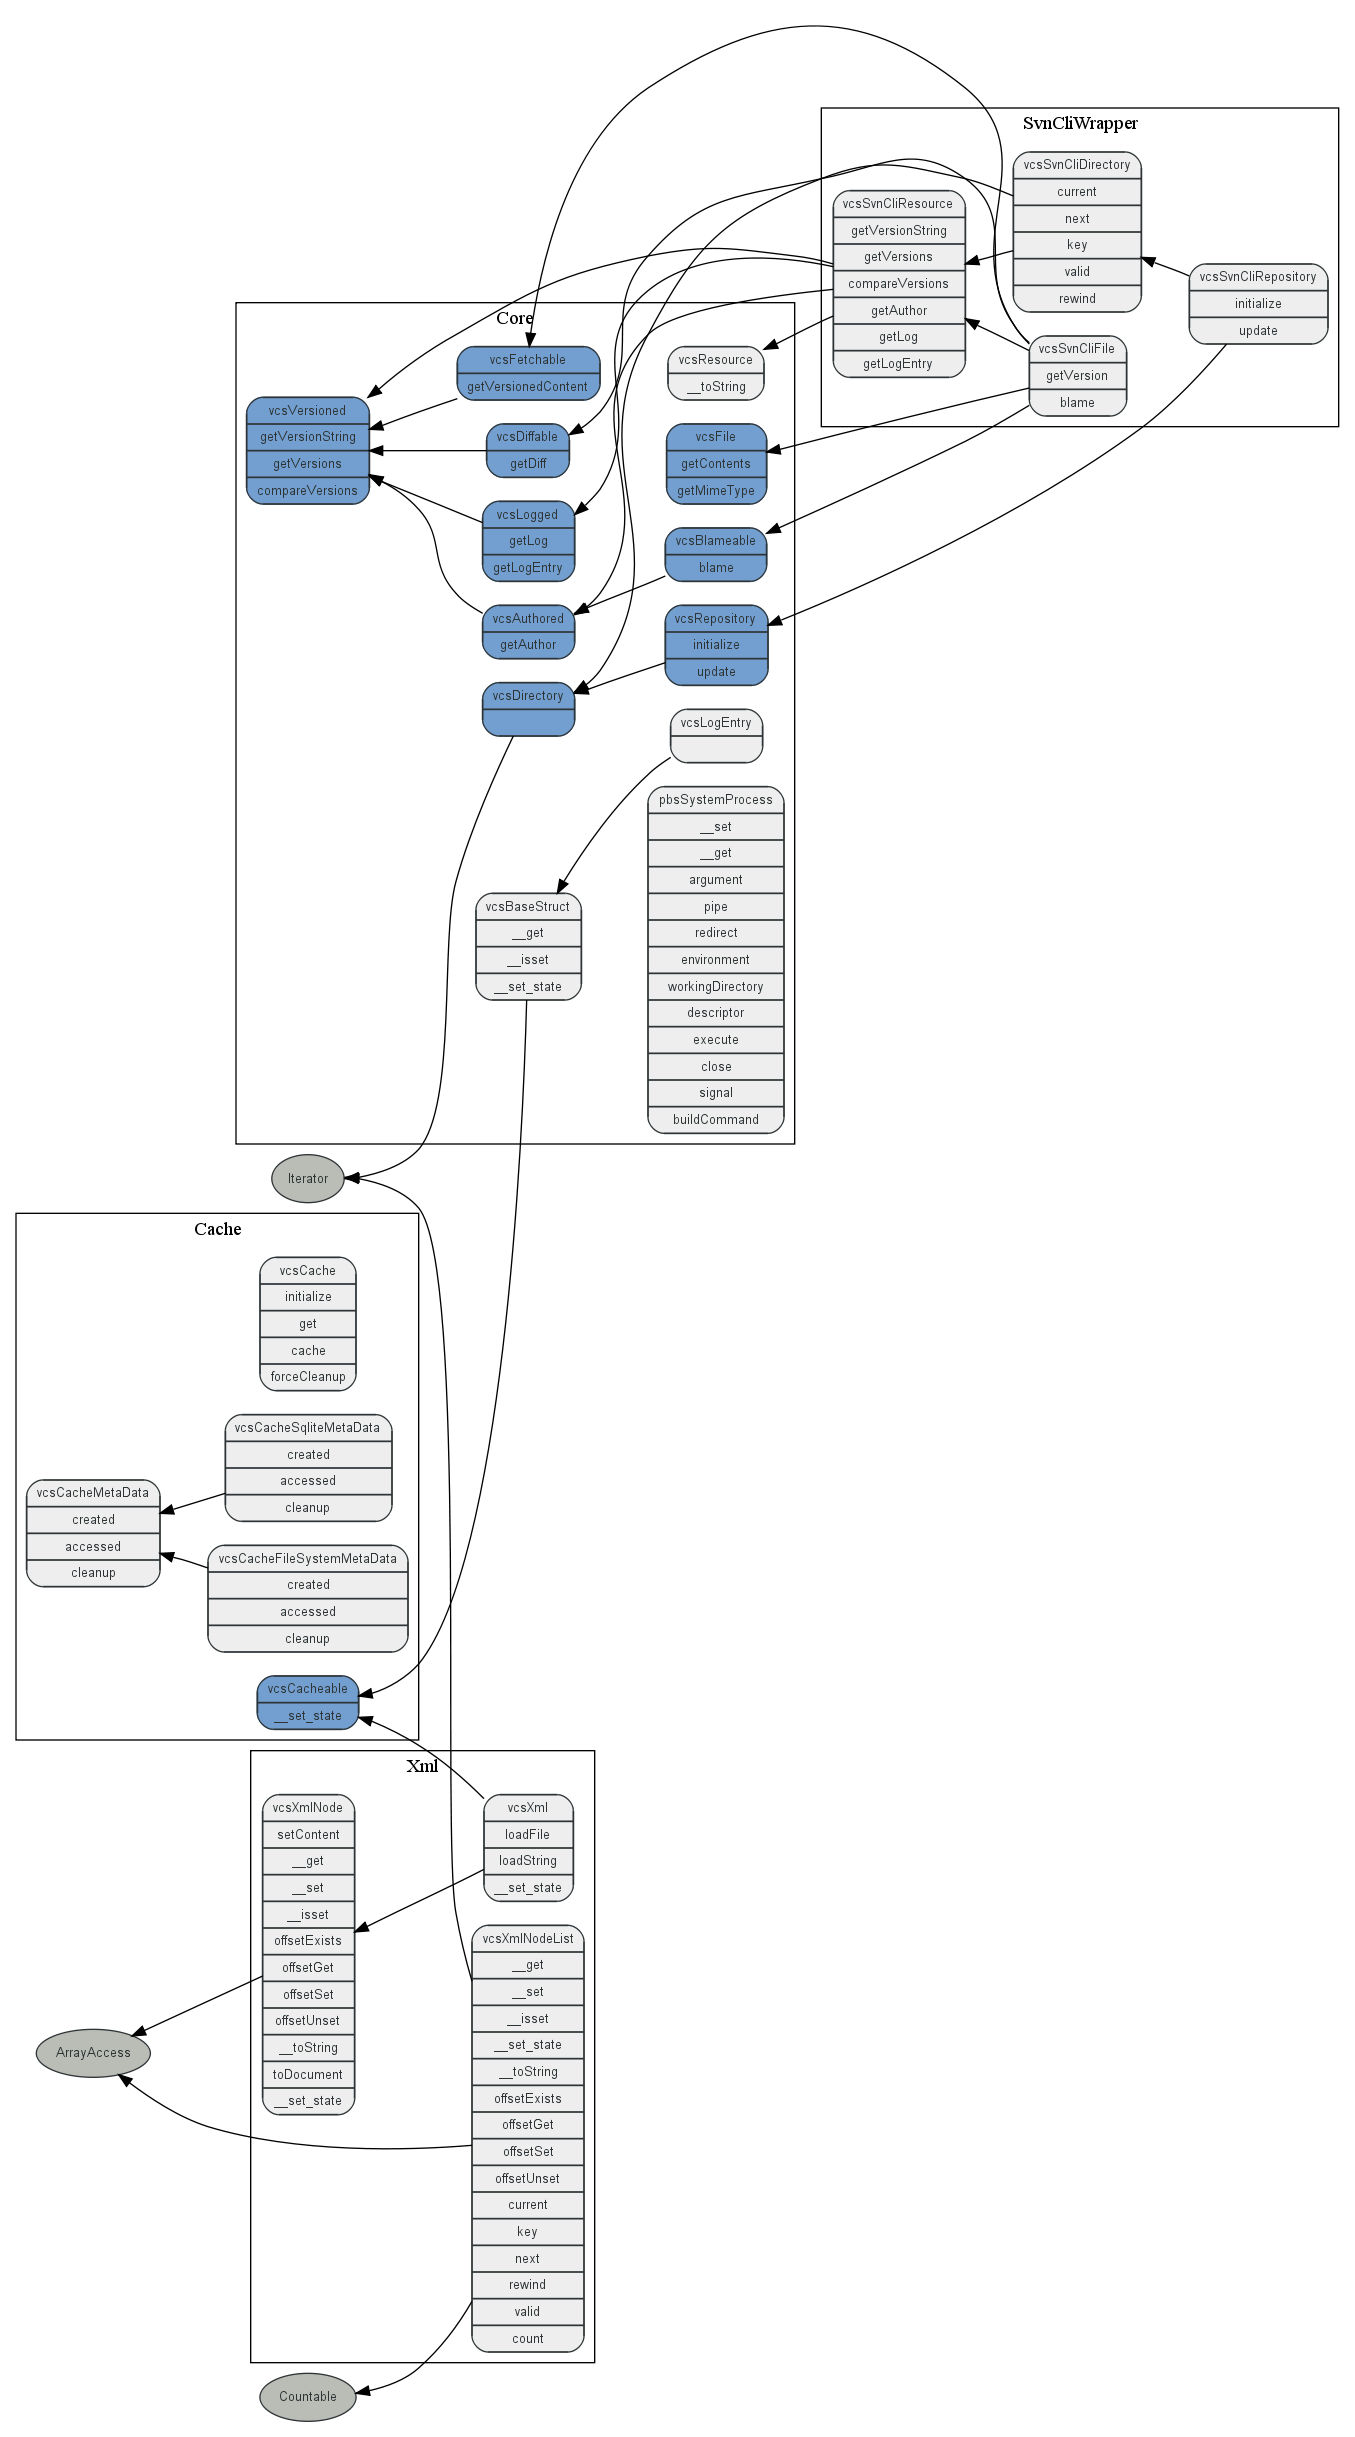
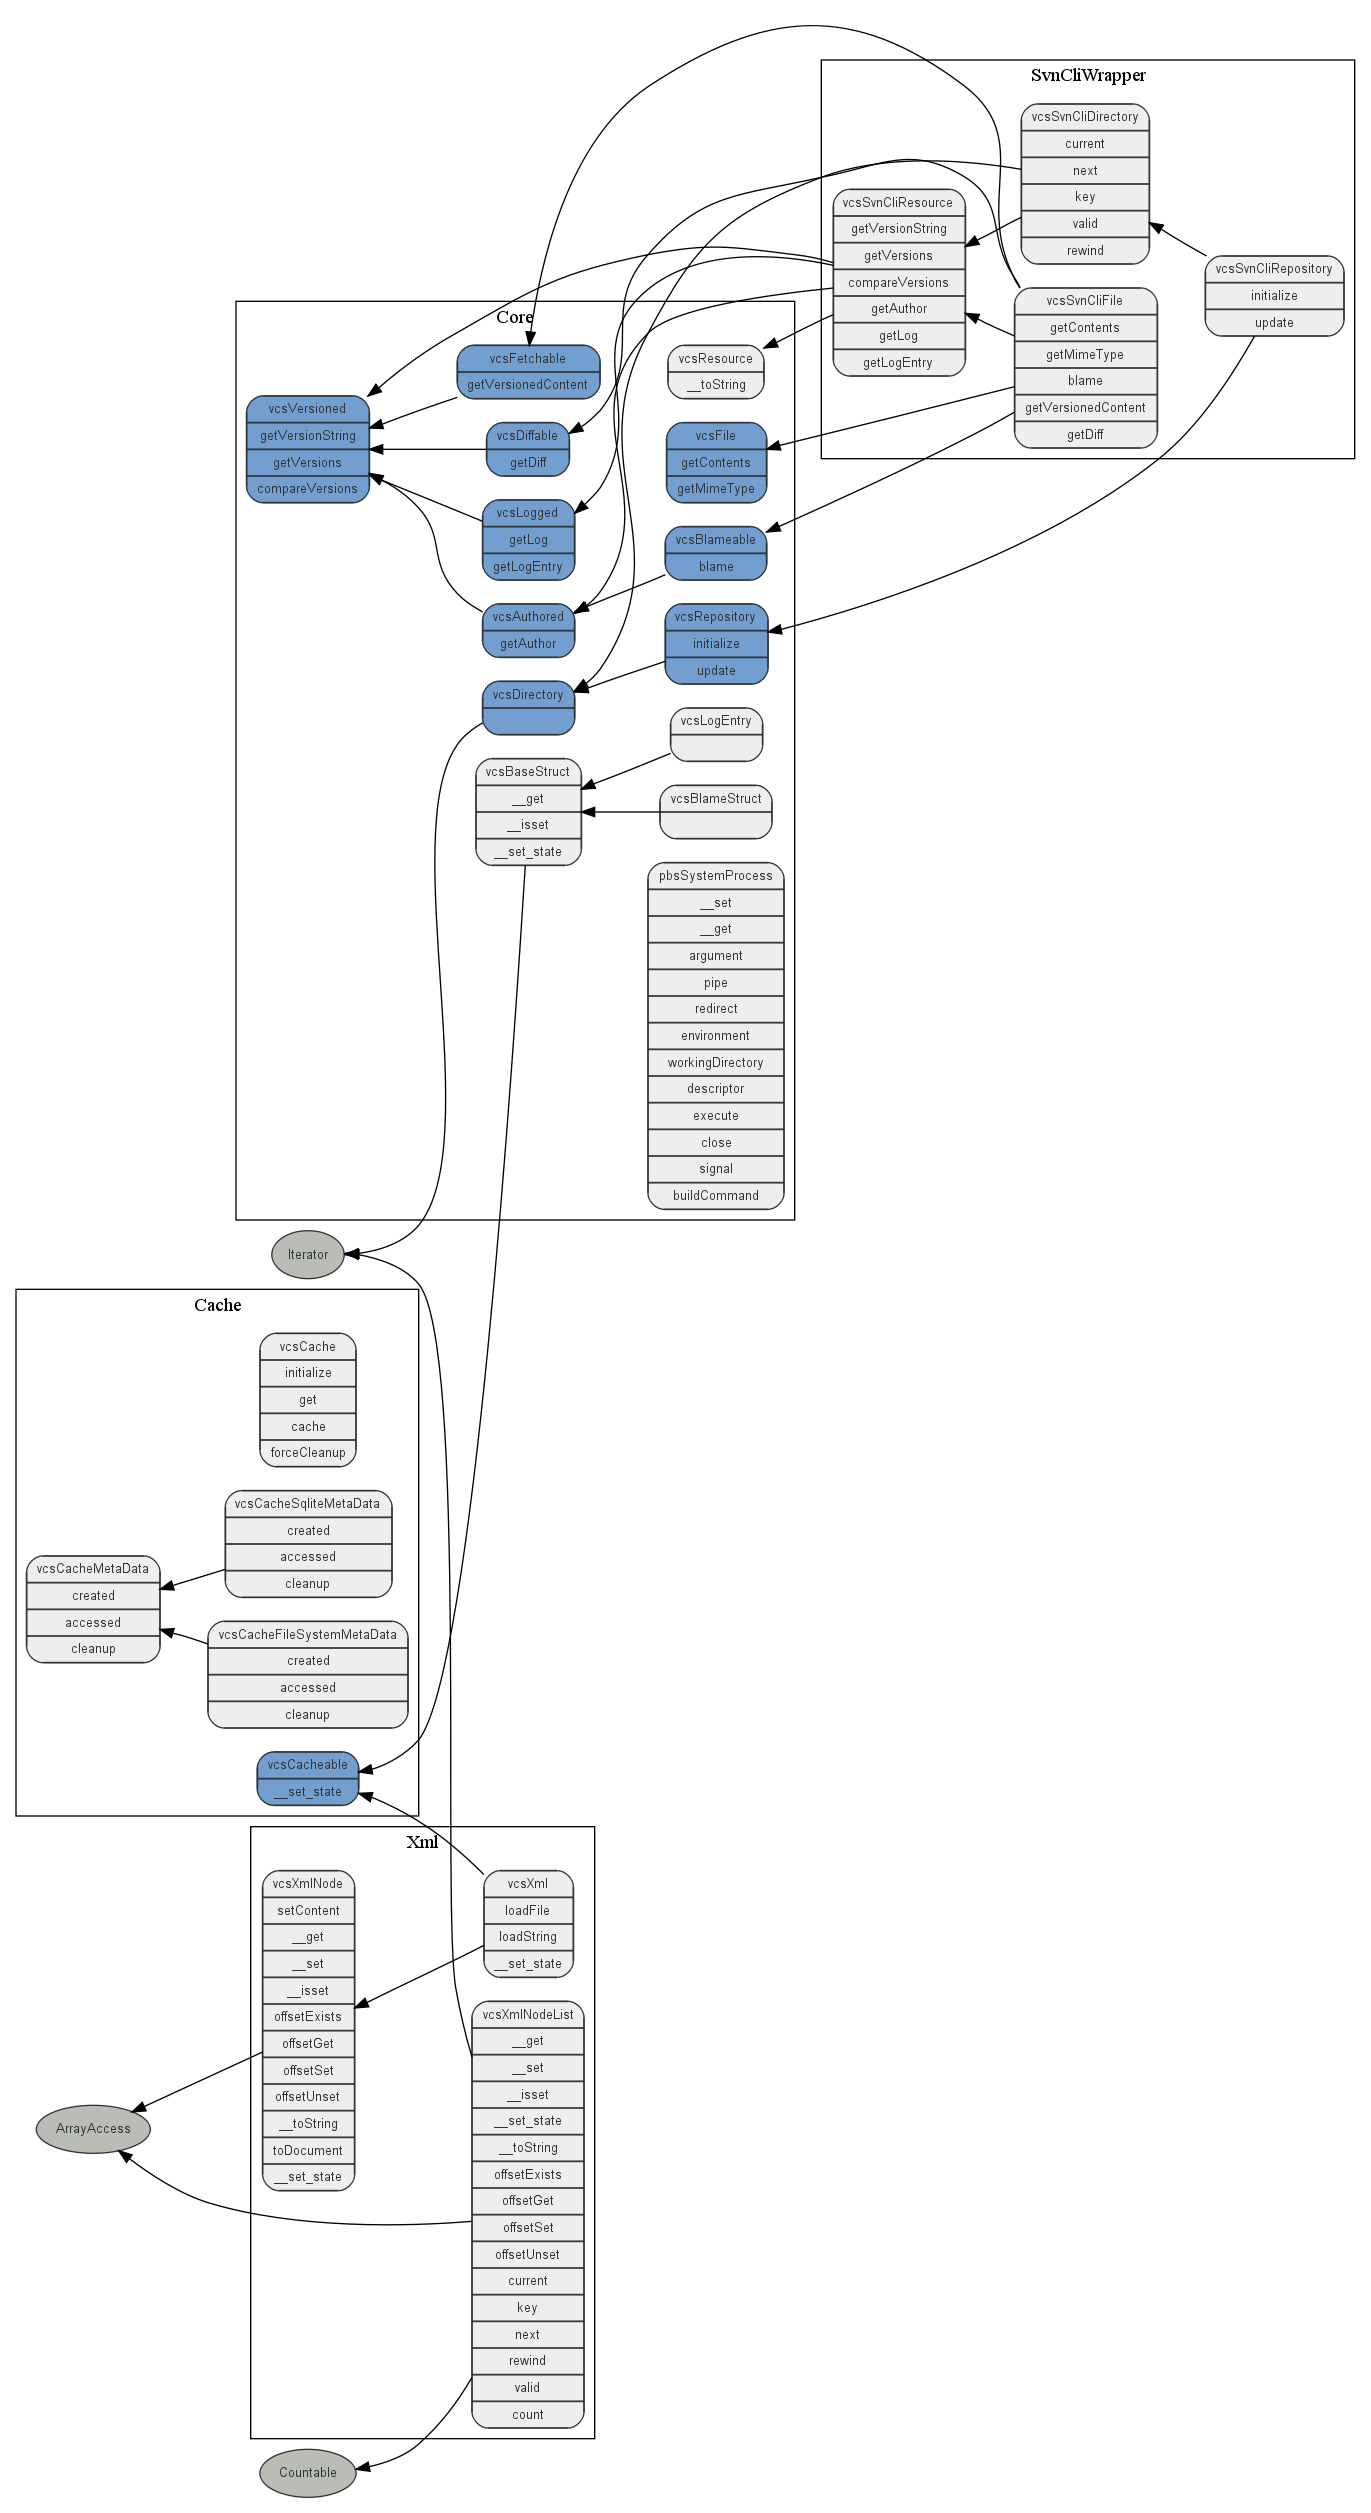
- Implemented: Blame in SVN cli wrapper
git-svn-id: svn://arbitracker.org/arbit/projects/vcs_wrapper/trunk@893 d477c273-c135-45d2-a073-3c6b16f0e171

diff --git a/src/classes/blame.php b/src/classes/blame.php
@@ -1,0 +1,60 @@
+<?php
+/**
+ * PHP VCS wrapper log entry
+ *
+ * This file is part of vcs-wrapper.
+ *
+ * vcs-wrapper is free software; you can redistribute it and/or modify it under
+ * the terms of the GNU Lesser General Public License as published by the Free
+ * Software Foundation; version 3 of the License.
+ *
+ * vcs-wrapper is distributed in the hope that it will be useful, but WITHOUT ANY
+ * WARRANTY; without even the implied warranty of MERCHANTABILITY or FITNESS
+ * FOR A PARTICULAR PURPOSE.  See the GNU Lesser General Public License for
+ * more details.
+ *
+ * You should have received a copy of the GNU Lesser General Public License
+ * along with vcs-wrapper; if not, write to the Free Software Foundation, Inc., 51
+ * Franklin St, Fifth Floor, Boston, MA  02110-1301  USA
+ *
+ * @package VCSWrapper
+ * @subpackage Core
+ * @version $Revision: 14 $
+ * @license http://www.gnu.org/licenses/lgpl-3.0.txt LGPLv3
+ */
+
+/*
+ * VCS wrapper abstracted log entry
+ */
+class vcsBlameStruct extends vcsBaseStruct
+{
+    /**
+     * Array containing the structs properties.
+     * 
+     * @var array
+     */
+    protected $properties = array(
+        'content' => null,
+        'version' => null,
+        'author'  => null,
+        'date'    => null,
+    );
+
+    /**
+     * Construct struct from given values
+     * 
+     * @param string $version 
+     * @param string $author 
+     * @param string $message 
+     * @param int $date 
+     * @return void
+     */
+    public function __construct( $content = null, $version = null, $author = null, $date = null )
+    {
+        $this->content = (string) $content;
+        $this->version = (string) $version;
+        $this->author  = (string) $author;
+        $this->date    = (int) $date;
+    }
+}
+

diff --git a/src/classes/wrapper/svn-cli/file.php b/src/classes/wrapper/svn-cli/file.php
@@ -57,6 +57,39 @@ class vcsSvnCliFile extends vcsSvnCliResource implements vcsFile, vcsBlameable, 
      */
     public function blame( $version = null )
     {
+        $version = ( $version === null ) ? $this->getVersionString() : $version;
+
+        if ( !in_array( $version, $this->getVersions(), true ) )
+        {
+            throw new vcsNoSuchVersionException( $this->path, $version );
+        }
+
+        if ( ( $blame = vcsCache::get( $this->path, $version, 'blame' ) ) === false )
+        {
+            // Refetch the basic blamermation, and cache it.
+            $process = new pbsSystemProcess( 'svn' );
+            $process->argument( '--non-interactive' )->argument( '--xml' )->argument( '-r' . $version );
+
+            // Execute command
+            $return = $process->argument( 'blame' )->argument( $this->root . $this->path )->execute();
+            $xml = vcsXml::loadString( $process->stdoutOutput );
+            $contents = preg_split( '(\r\n|\r|\n)', $this->getVersionedContent( $version ) );
+
+            $blame = array();
+            foreach ( $xml->target[0]->entry as $nr => $entry )
+            {
+                $blame[] = new vcsBlameStruct(
+                    $contents[$nr],
+                    $entry->commit[0]['revision'],
+                    $entry->commit[0]->author,
+                    strtotime( $entry->commit[0]->date )
+                );
+            }
+
+            vcsCache::cache( $this->path, $version, 'blame', $blame );
+        }
+
+        return $blame;
     }
 
     /**

diff --git a/tests/svn-cli/file.php b/tests/svn-cli/file.php
@@ -169,5 +169,43 @@ class vcsSvnCliFileTests extends vcsTestCase
         } catch ( vcsNoSuchVersionException $e )
         { /* Expected */ }
     }
+
+    public function testGetFileBlame()
+    {
+        $repository = new vcsSvnCliRepository( $this->tempDir );
+        $repository->initialize( 'file://' . realpath( __DIR__ . '/../data/svn' ) );
+        $file = new vcsSvnCliFile( $this->tempDir, '/file' );
+
+        $this->assertEquals(
+            array(
+                new vcsBlameStruct(
+                    'Some test file',
+                    '1',
+                    'kore',
+                    1226412609
+                ),
+                new vcsBlameStruct(
+                    'A second line, in a later revision',
+                    '5',
+                    'kore',
+                    1226595170
+                ),
+            ),
+            $file->blame()
+        );
+    }
+
+    public function testGetFileBlameInvalidVersion()
+    {
+        $repository = new vcsSvnCliRepository( $this->tempDir );
+        $repository->initialize( 'file://' . realpath( __DIR__ . '/../data/svn' ) );
+        $file = new vcsSvnCliFile( $this->tempDir, '/file' );
+
+        try {
+            $file->blame( "no_such_version" );
+            $this->fail( 'Expected vcsNoSuchVersionException.' );
+        } catch ( vcsNoSuchVersionException $e )
+        { /* Expected */ }
+    }
 }
 

diff --git a/src/classes/autoload.php b/src/classes/autoload.php
@@ -29,6 +29,9 @@
  * # scripts/gen_autoload_files.php
  */
 return array(
+    'vcsCacheable'                              => 'classes/interfaces/cacheable.php',
+    'vcsBaseStruct'                             => 'classes/struct.php',
+    'vcsBlameStruct'                            => 'classes/blame.php',
     'vcsCache'                                  => 'classes/cache.php',
     'vcsCacheMetaData'                          => 'classes/cache/metadata.php',
     'vcsCacheFileSystemMetaData'                => 'classes/cache/metadata/filesystem.php',
@@ -41,8 +44,6 @@ return array(
     'vcsRpositoryInitialisationFailedException' => 'classes/exceptions.php',
     'vcsRpositoryUpdateFailedException'         => 'classes/exceptions.php',
     'vcsNoSuchVersionException'                 => 'classes/exceptions.php',
-    'vcsCacheable'                              => 'classes/interfaces/cacheable.php',
-    'vcsBaseStruct'                             => 'classes/struct.php',
     'vcsLogEntry'                               => 'classes/log_entry.php',
     'pbsSystemProcess'                          => 'classes/systemProcess.php',
     'vcsResource'                               => 'classes/resource.php',
